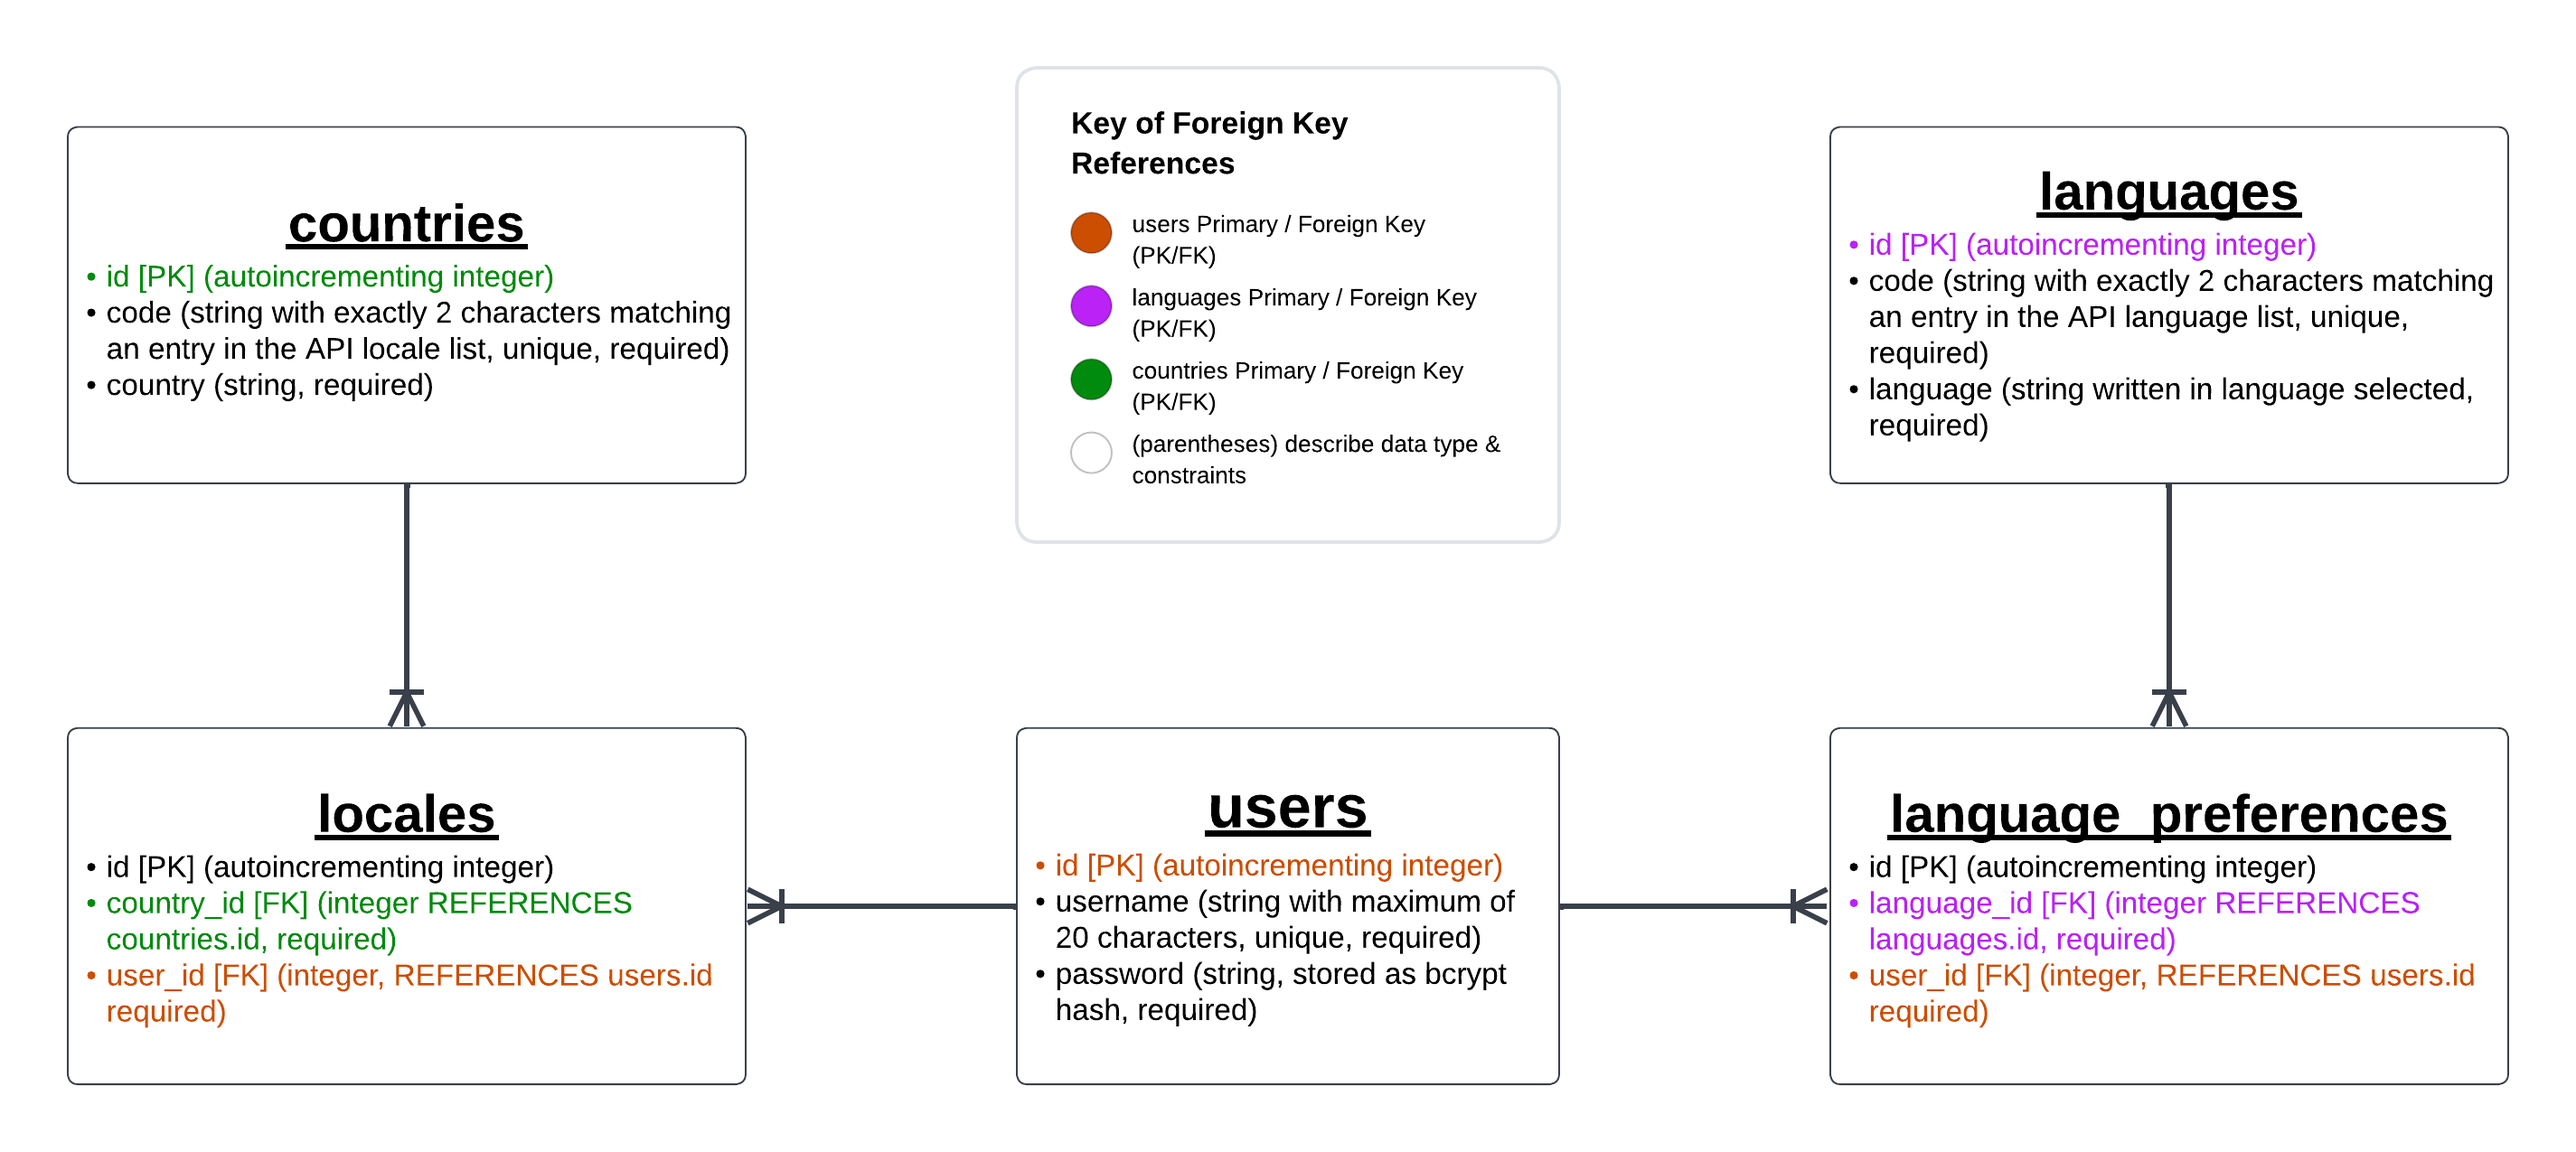
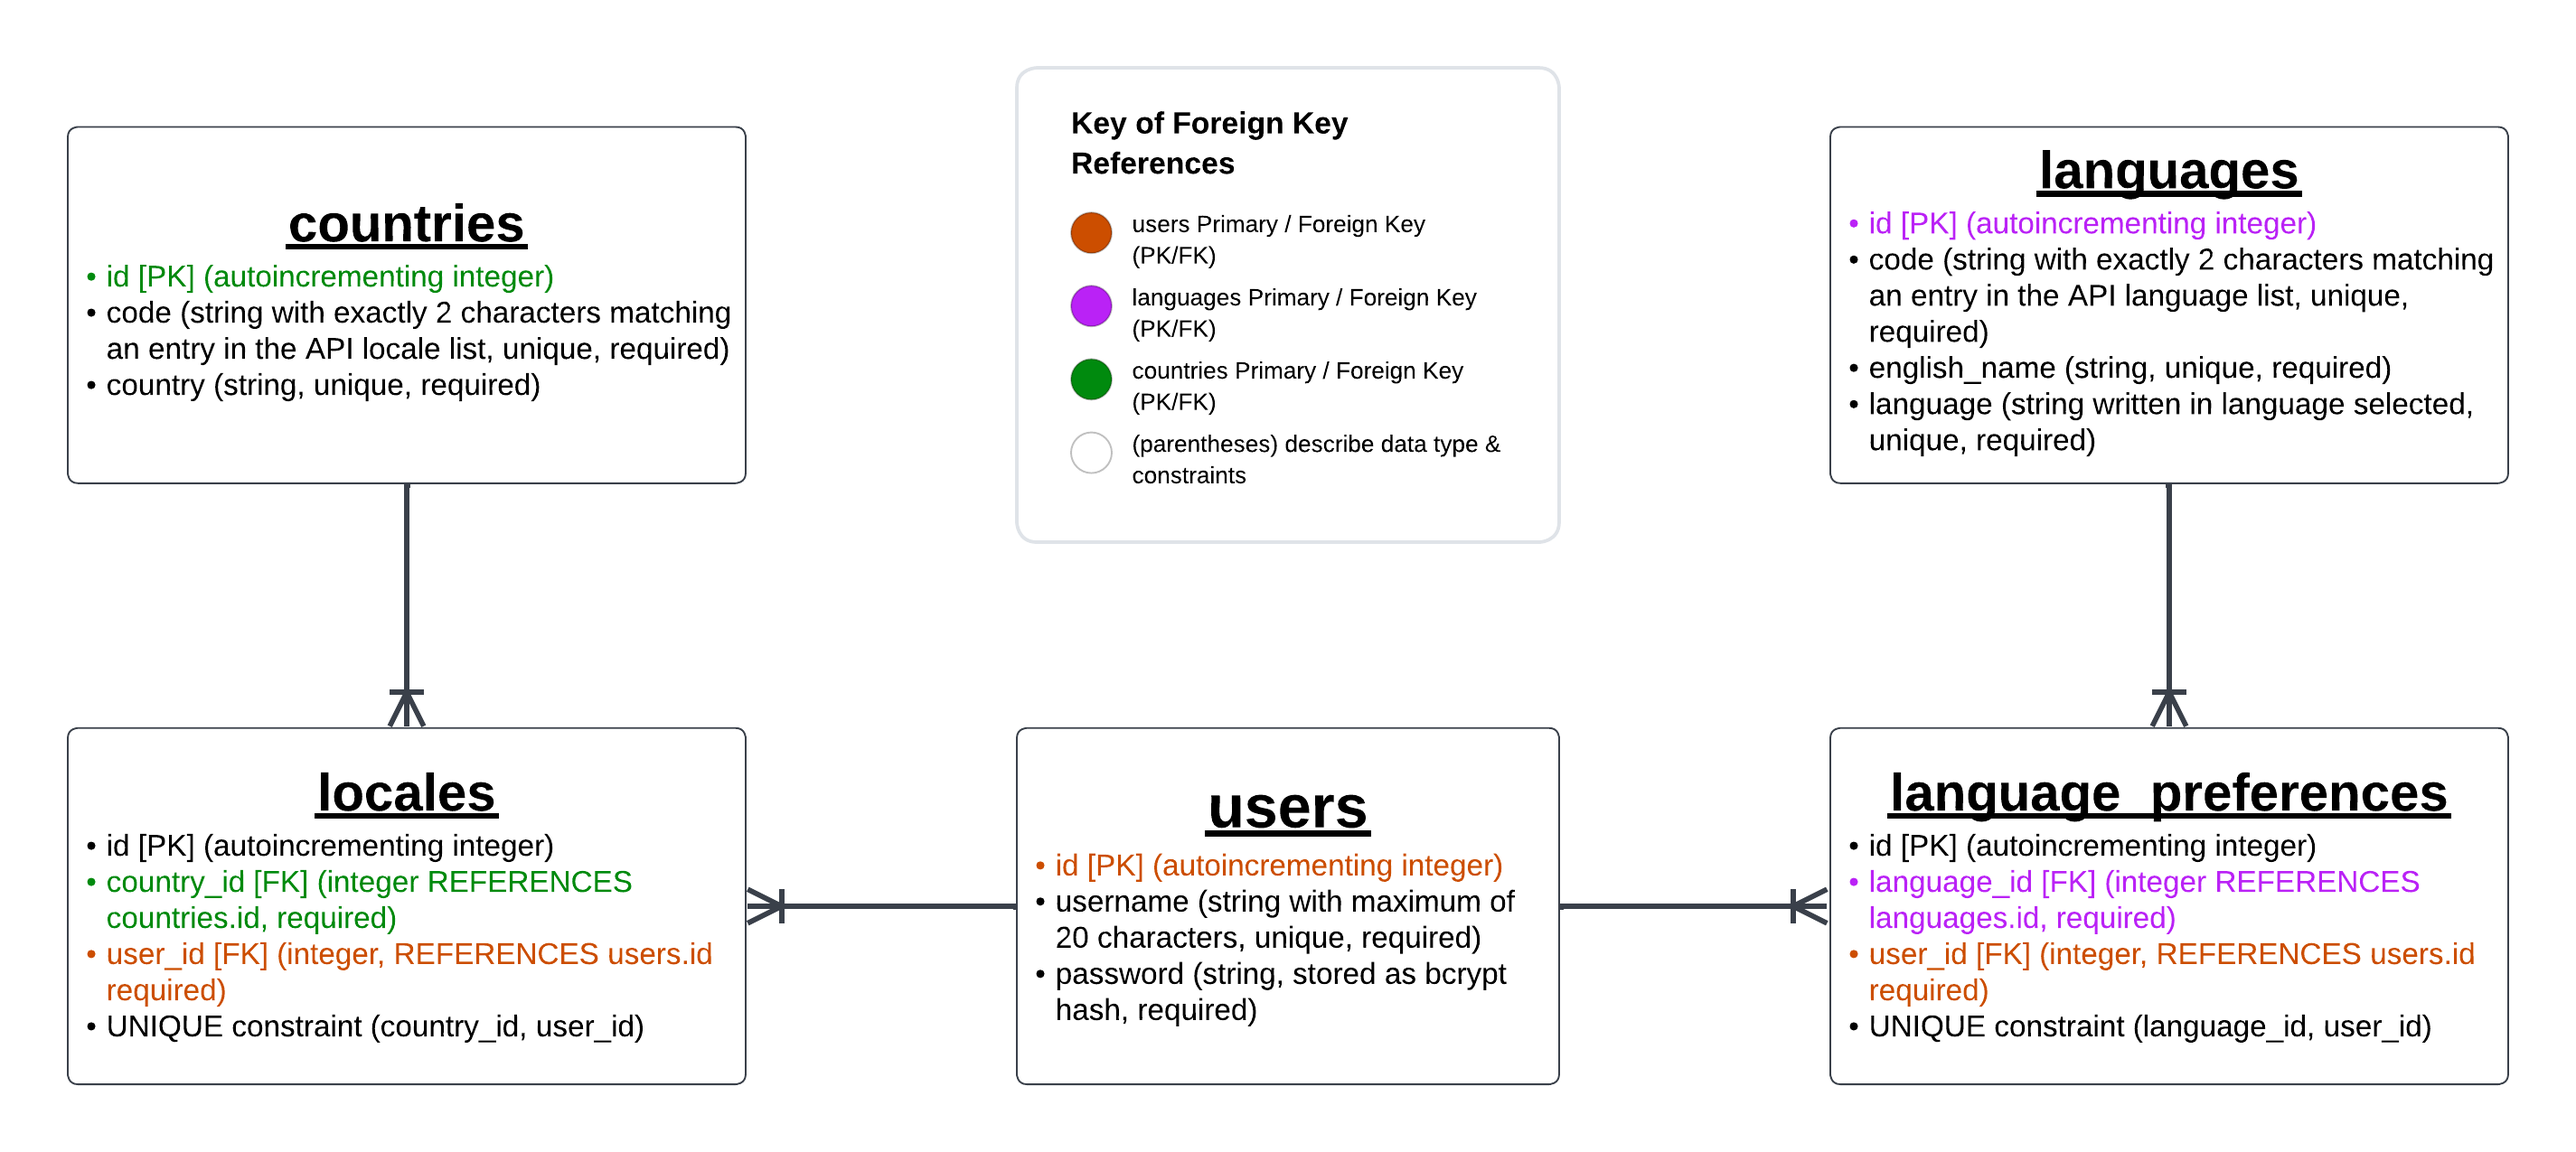
feat: enable user to set preferred languages and countries to receive news for; docs: update database schema to reflect languages now including English name and the unique constraints on language_preferences & locales

diff --git a/models.py b/models.py
@@ -11,6 +11,8 @@ class User (db.Model):
 	id = db.Column(db.Integer(), primary_key=True)
 	username = db.Column(db.String(20), unique=True, nullable=False)
 	password = db.Column(db.String(), nullable=False)
+	languages = db.relationship('Language', secondary='language_preferences')
+	countries = db.relationship('Country', secondary='locales')
 
 	@classmethod
 	def register(cls, username, password):
@@ -44,3 +46,45 @@ class Country (db.Model):
 	id = db.Column(db.Integer(), primary_key=True)
 	code = db.Column(db.String(2), unique=True, nullable=False)
 	country = db.Column(db.String(), unique=True, nullable=False)
+
+class Language_Preference (db.Model):
+	"""SQLAlchemy Language_Preference Model"""
+
+	__tablename__ = 'language_preferences'
+	id = db.Column(db.Integer(), primary_key=True)
+	language_id = db.Column(
+		db.Integer(),
+		db.ForeignKey('languages.id'),
+		nullable=False
+	)
+	user_id = db.Column(
+		db.Integer(),
+		db.ForeignKey('users.id'),
+		nullable=False
+	)
+	__table_args__ = (db.UniqueConstraint(
+		'language_id',
+		'user_id',
+		name='unique_lang_user_pair'),
+	)
+
+class Locale (db.Model):
+	"""SQLAlchemy Locale Model"""
+
+	__tablename__ = 'locales'
+	id = db.Column(db.Integer(), primary_key=True)
+	country_id = db.Column(
+		db.Integer(),
+		db.ForeignKey('countries.id'),
+		nullable=False
+	)
+	user_id = db.Column(
+		db.Integer(),
+		db.ForeignKey('users.id'),
+		nullable=False
+	)
+	__table_args__ = (db.UniqueConstraint(
+		'country_id',
+		'user_id',
+		name='unique_country_user_pair'),
+	)

diff --git a/seed.py b/seed.py
@@ -64,3 +64,15 @@ with app.app_context():
 		db.session.add(new_lang)
 	
 	db.session.commit()
+
+	testuser = User.register(username='testuser', password='testing')
+	db.session.add(testuser)
+	db.session.commit()
+
+	testuser_refresh = User.query.filter_by(username='testuser').first()
+	english = Language.query.filter_by(language='English').first()
+	us = Country.query.filter_by(country='United States Of America').first()
+	testuser_refresh.languages.append(english)
+	testuser_refresh.countries.append(us)
+	db.session.add(testuser_refresh)
+	db.session.commit()
